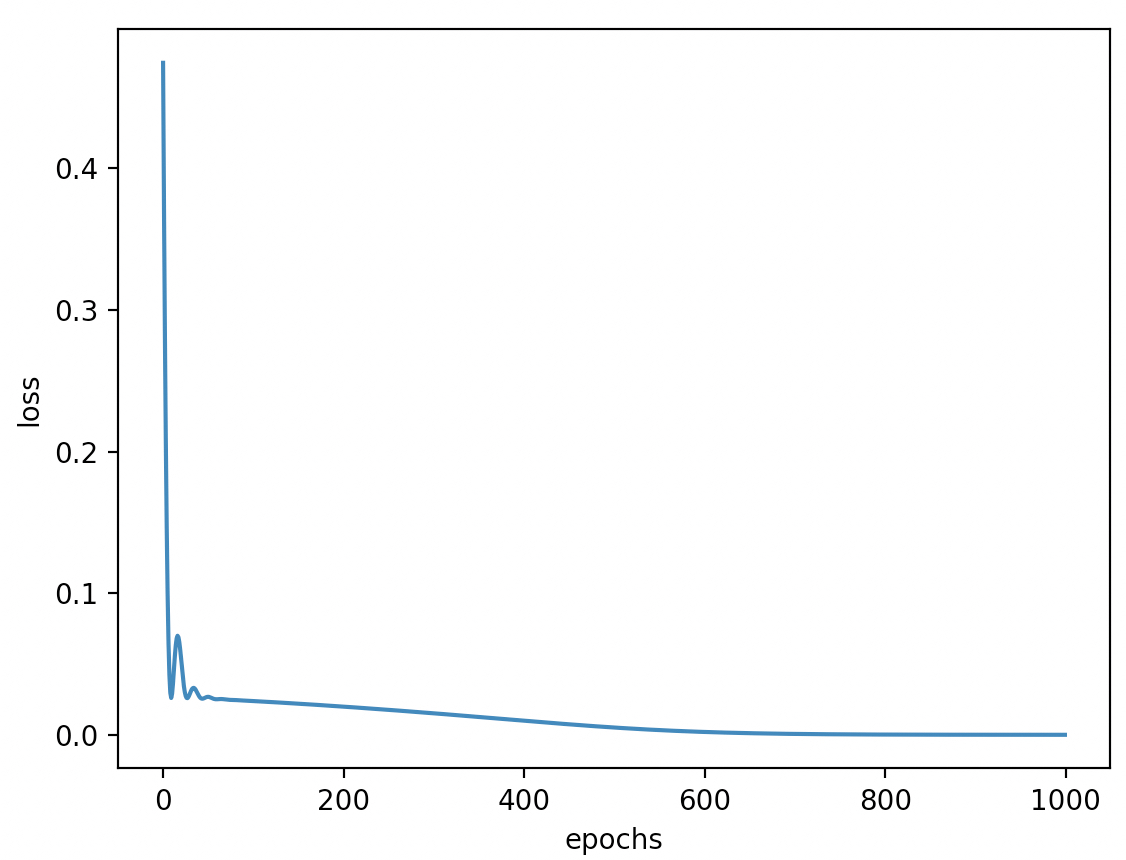
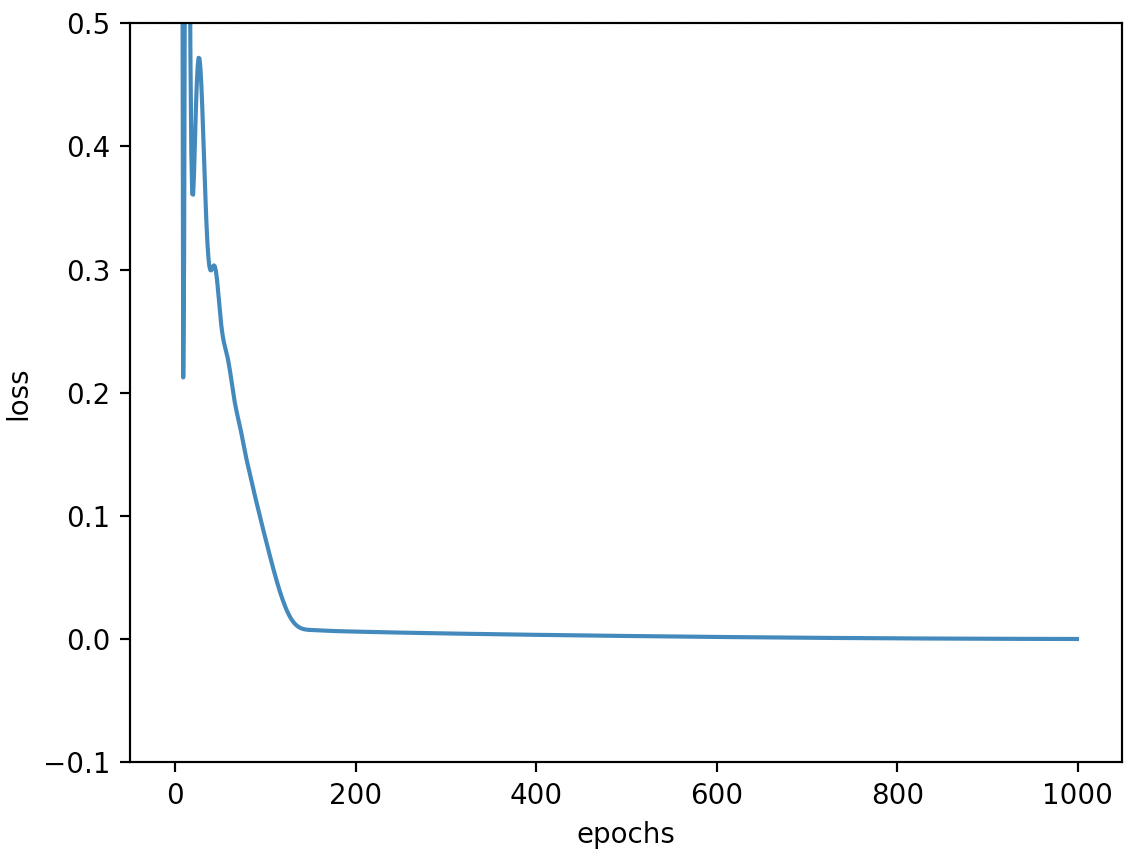
修订内容和代码

diff --git a/Code/Chapter03/C03_Trapezoid/main.py b/Code/Chapter03/C03_Trapezoid/main.py
@@ -25,7 +25,7 @@ def make_trapezoid_data():
 
 def visualization_loss(losses):
     plt.plot(range(len(losses)), losses)
-    plt.ylim(-0.1, 0.6)
+    plt.ylim(-0.1, 0.5)
     plt.xlabel('epochs')
     plt.ylabel('loss')
     plt.show()
@@ -33,7 +33,6 @@ def visualization_loss(losses):
 
 def train(x, y):
     epochs = 1000
-    # lr = 0.1
     lr = 0.125
     input_node = x.shape[1]
     hidden_node = 80

diff --git a/Docs/Chapter03/Ch03.2_LinearRegressionImp.md b/Docs/Chapter03/Ch03.2_LinearRegressionImp.md
@@ -165,8 +165,8 @@
 
 ```python
 1 def make_trapezoid_data():
-2     x1 = np.random.randint(5, 10, [50, 1]) / 10
-3     x2 = np.random.randint(10, 16, [50, 1]) / 10
+2     x1 = np.random.uniform(0.5, 1.5, [50, 1])
+3     x2 = np.random.uniform(0.5, 1.5, [50, 1])
 4     x = np.hstack((x1, x2))
 5     y = 0.5 * (x1 + x2) * x1
 6     x = torch.tensor(x, dtype=torch.float32)
@@ -174,7 +174,7 @@
 8     return x, y
 ```
 
-在上述代码中，第2~3行分别用于随机生成梯形的上底和下底，其中第2行表示在整数范围5到10之间生成一个形状为50行1列向量，并缩小了10倍（便于模型训练）；第4行表示将两列向量拼接在一起得到一个50行2列的矩阵；第5行表示计算梯形真实的面积；第6~8行是分别将`x`和`y`转换为PyTorch中的张量并返回。
+在上述代码中，第2~3行为根据均匀分布在区间0.5到1.5随机生成梯形的上底和下底，且形状为50行1列向量；第4行表示将两列向量拼接在一起得到一个50行2列的矩阵；第5行表示计算梯形真实的面积；第6~8行是分别将`x`和`y`转换为PyTorch中的张量并返回。
 
 **2\. 构建模型**
 
@@ -206,8 +206,8 @@
 上述代码运行结束后便可以得到如下输出结果：
 
 ```python
-1 真实值： [0.84  0.7   0.855 0.665 0.54 ]
-2 预测值： [0.83861655 0.7117218  0.85532755 0.6754495  0.54401684]
+1 真实值： [1.2635546  1.6118135  1.8578457  1.7236208  0.48818496]
+2 预测值： [1.2622473 1.620144  1.855083  1.7280536 0.5039229]
 ```
 
 从输出结果可以看出，模型的预测结果和真实值已经非常接近了。
@@ -220,7 +220,7 @@
 <center>
     图 3-9. 梯形面积预测损失图
 </center>
-从图3-9可以看出，模型大约在迭代600次之后便进行入了收敛阶段。
+从图3-9可以看出，模型大约在迭代800次之后便进行入了收敛阶段。
 
 ## 3.2.4 小结
 
